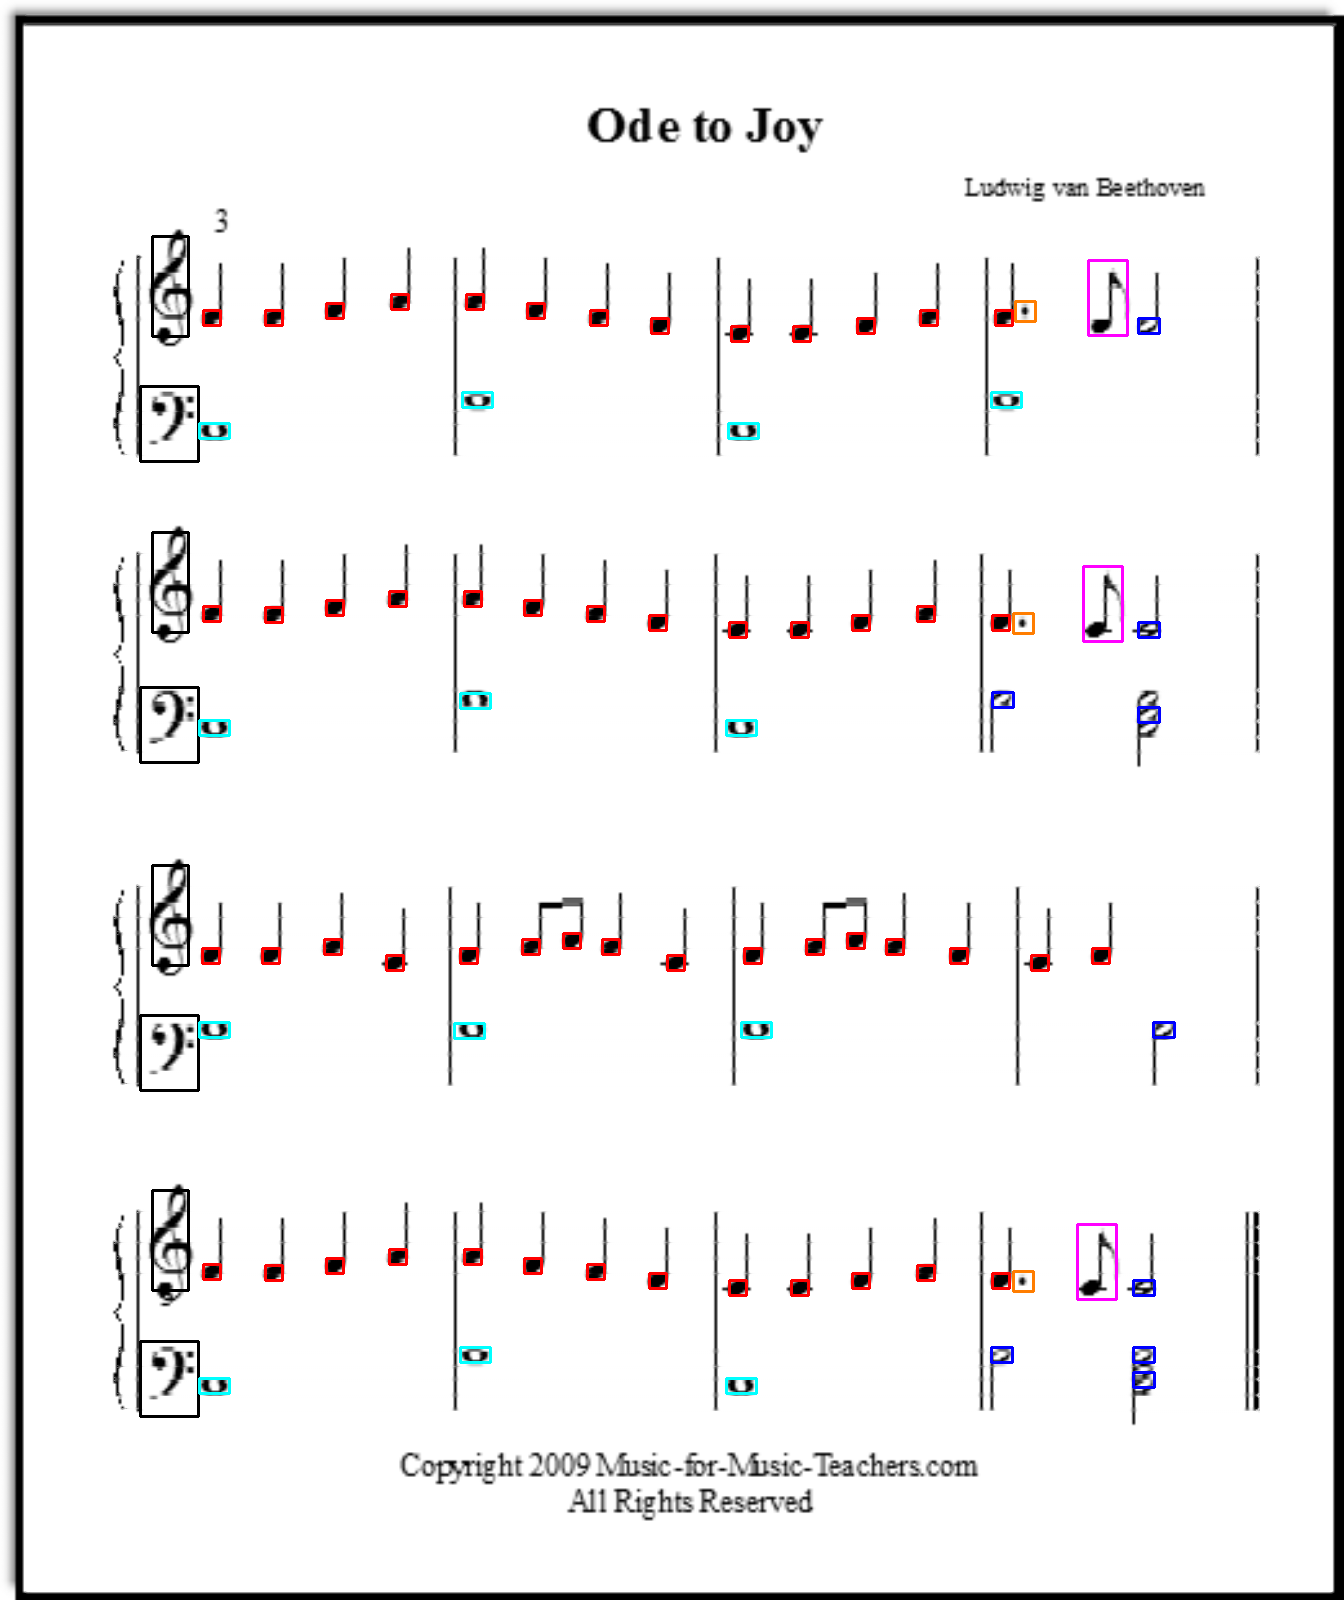
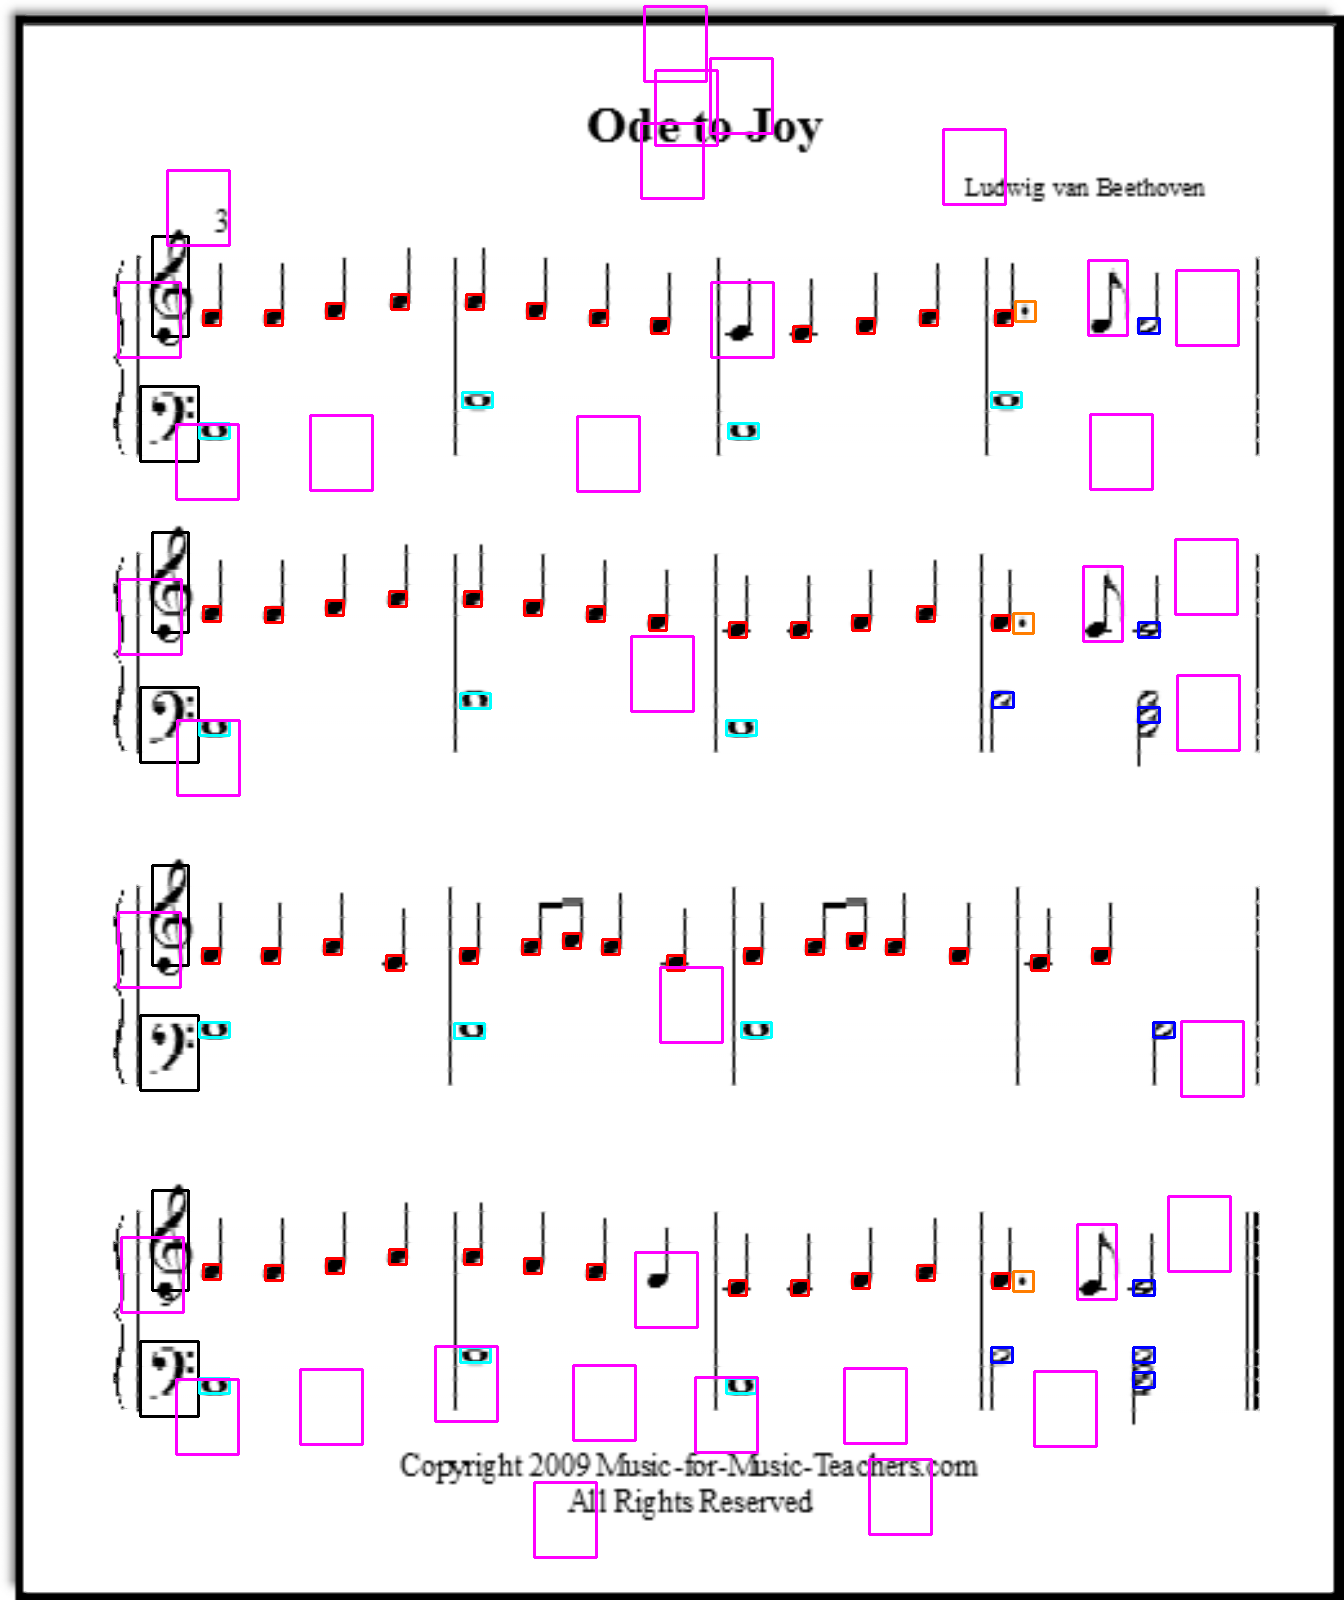
no more contours

diff --git a/main.py b/main.py
@@ -138,41 +138,41 @@ staffless_img = cv2.imread("staffless.png", cv2.IMREAD_GRAYSCALE)
 cv2.imshow("Staff Removed", resize(staffless_img,600))
 
 # STEP 2: Finding potential musical symbols 
-binary = cv2.adaptiveThreshold(staffless_img, 255, 
-                               cv2.ADAPTIVE_THRESH_GAUSSIAN_C, 
-                               cv2.THRESH_BINARY_INV, 
-                               35, # block size
-                               11) # constant subtracted from mean
+#binary = cv2.adaptiveThreshold(staffless_img, 255, 
+#                               cv2.ADAPTIVE_THRESH_GAUSSIAN_C, 
+#                               cv2.THRESH_BINARY_INV, 
+#                               35, # block size
+#                               11) # constant subtracted from mean
 #cv2.imshow("Binary", resize(binary),600)
-cv2.imwrite("binary.png", binary)
+#cv2.imwrite("binary.png", binary)
 
-contours, _ = cv2.findContours(binary, cv2.RETR_EXTERNAL, cv2.CHAIN_APPROX_SIMPLE)
-symbols = []
-staffless_color = cv2.cvtColor(staffless_img, cv2.COLOR_GRAY2BGR)
+#contours, _ = cv2.findContours(binary, cv2.RETR_EXTERNAL, cv2.CHAIN_APPROX_SIMPLE)
+#symbols = []
+#staffless_color = cv2.cvtColor(staffless_img, cv2.COLOR_GRAY2BGR)
 
 # computing average spacing from detected staves
-avg_spacing = np.mean([abs(staff[i+1] - staff[i]) for staff in staves for i in range(4)])
-top_of_first_staff = min(staff[0] for staff in staves)
+#avg_spacing = np.mean([abs(staff[i+1] - staff[i]) for staff in staves for i in range(4)])
+#top_of_first_staff = min(staff[0] for staff in staves)
 
 # filtering contours 
-for contour in contours:
-    area = cv2.contourArea(contour)
-    if area < 20 or area > 15000:
-        continue 
-    x,y,w,h = cv2.boundingRect(contour)
-    ratio = w / h
-    if ratio < 0.15 or ratio > 4:
-        continue
-    if h < 0.5 * avg_spacing or h > 3.5 * avg_spacing:
-        continue
-    if y + h < top_of_first_staff - 10:
-        continue
-    # passed all the filters -> actual musical symbol candidate 
-    crop = staffless_img[y:y+h, x:x+w]
-    cx, cy = x + w//2, y+ h//2 
-    symbols.append({"bbox": (x,y,w,h), "center": (cx,cy), "image": crop})
-    cv2.rectangle(staffless_color, (x,y), (x+w, y+h), (0,0,255), 2)
-#cv2.imshow("Candidates", resize(staffless_color),600)
+#for contour in contours:
+#    area = cv2.contourArea(contour)
+#    if area < 20 or area > 15000:
+#        continue 
+#    x,y,w,h = cv2.boundingRect(contour)
+#    ratio = w / h
+#    if ratio < 0.15 or ratio > 4:
+#        continue
+#    if h < 0.5 * avg_spacing or h > 3.5 * avg_spacing:
+#        continue
+#    if y + h < top_of_first_staff - 10:
+#        continue
+#    # passed all the filters -> actual musical symbol candidate 
+#    crop = staffless_img[y:y+h, x:x+w]
+#    cx, cy = x + w//2, y+ h//2 
+#    symbols.append({"bbox": (x,y,w,h), "center": (cx,cy), "image": crop})
+#    cv2.rectangle(staffless_color, (x,y), (x+w, y+h), (0,0,255), 2)
+#cv2.imshow("Candidates", resize(staffless_color,600))
 
 # STEP 3: Template matching
 # importing templates
